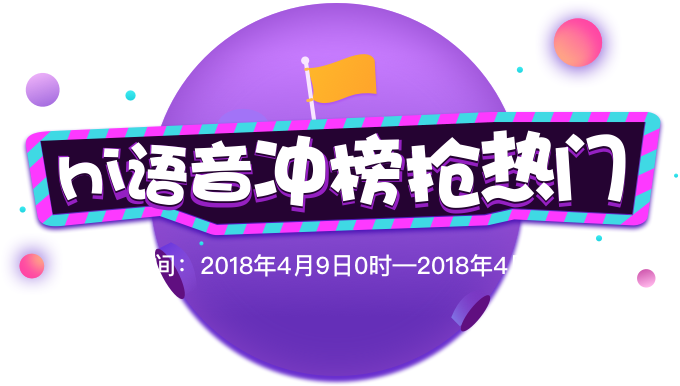
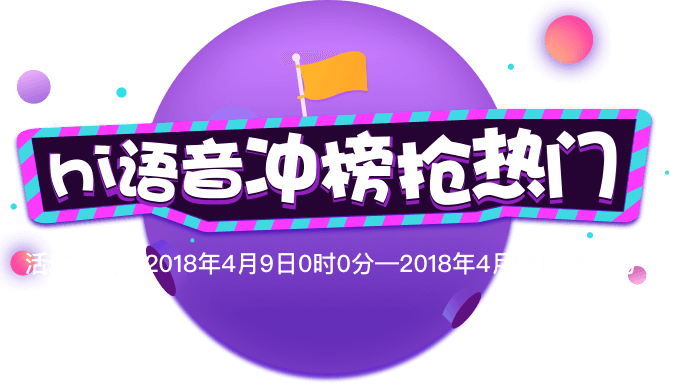
debug

diff --git a/public/m/activities/css/ranking_to_hot_activity.css b/public/m/activities/css/ranking_to_hot_activity.css
@@ -22,7 +22,7 @@ html,body{
   width: 100%;
   /* height: 100%; */
   background: url(../images/activity_ranking_bg.png) center -60px no-repeat;
-  background-size: 100% 1406px;
+  background-size: 100% 1500px;
 }
 .activity_ranking_top{
   margin: 0 auto;
